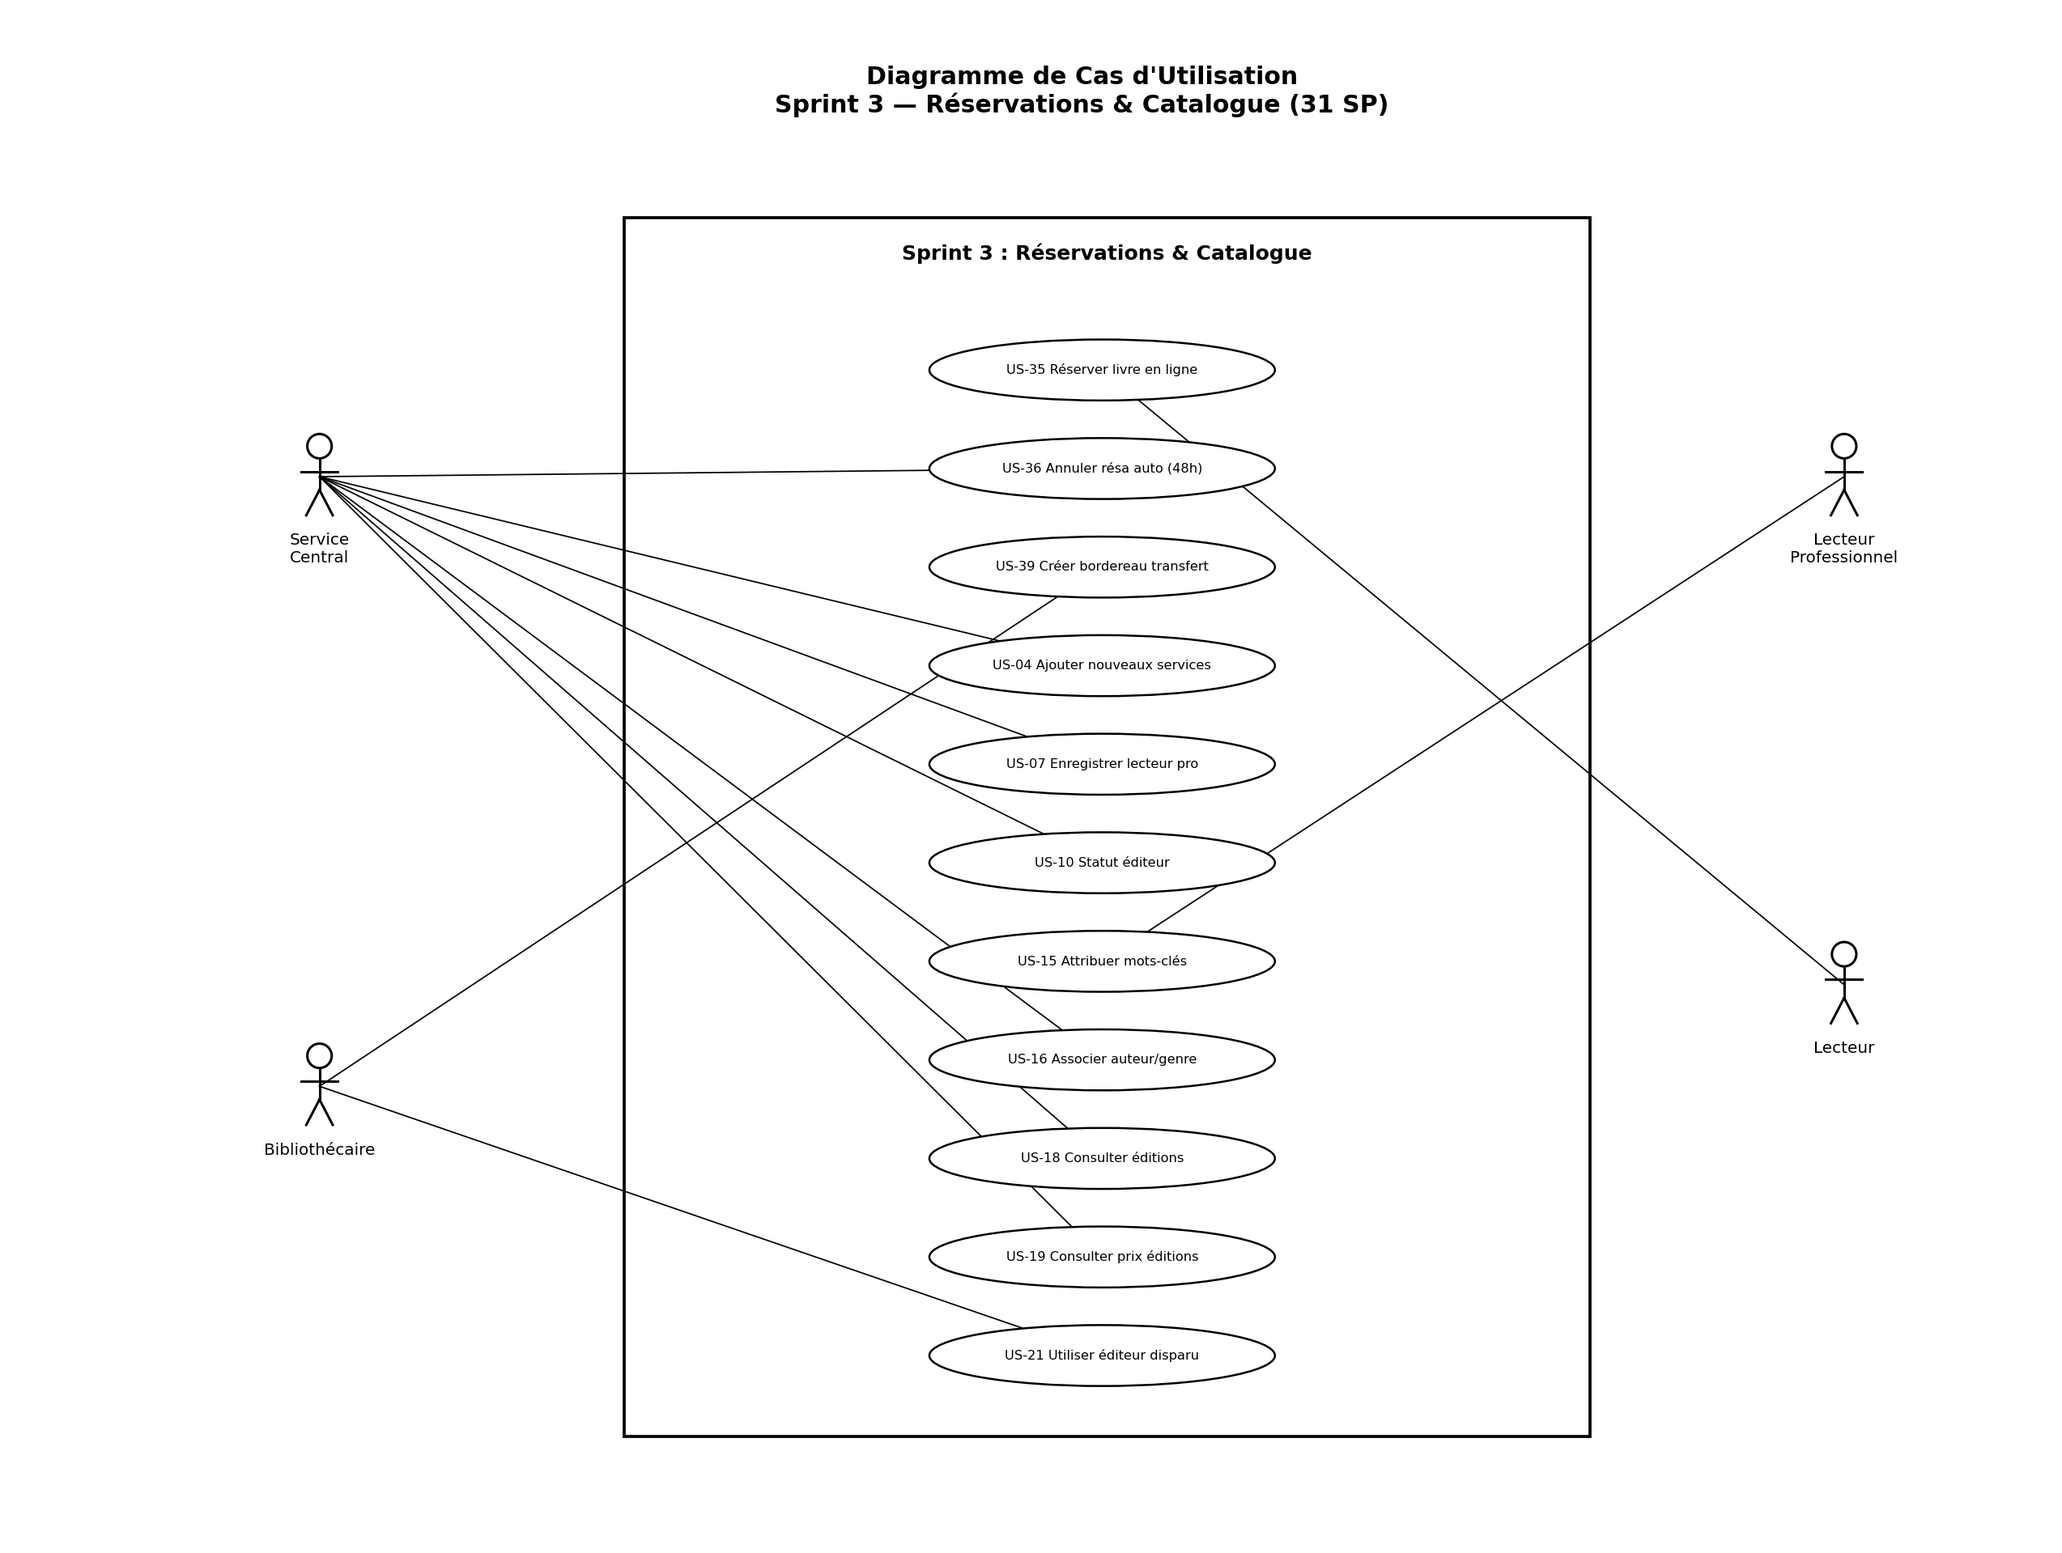
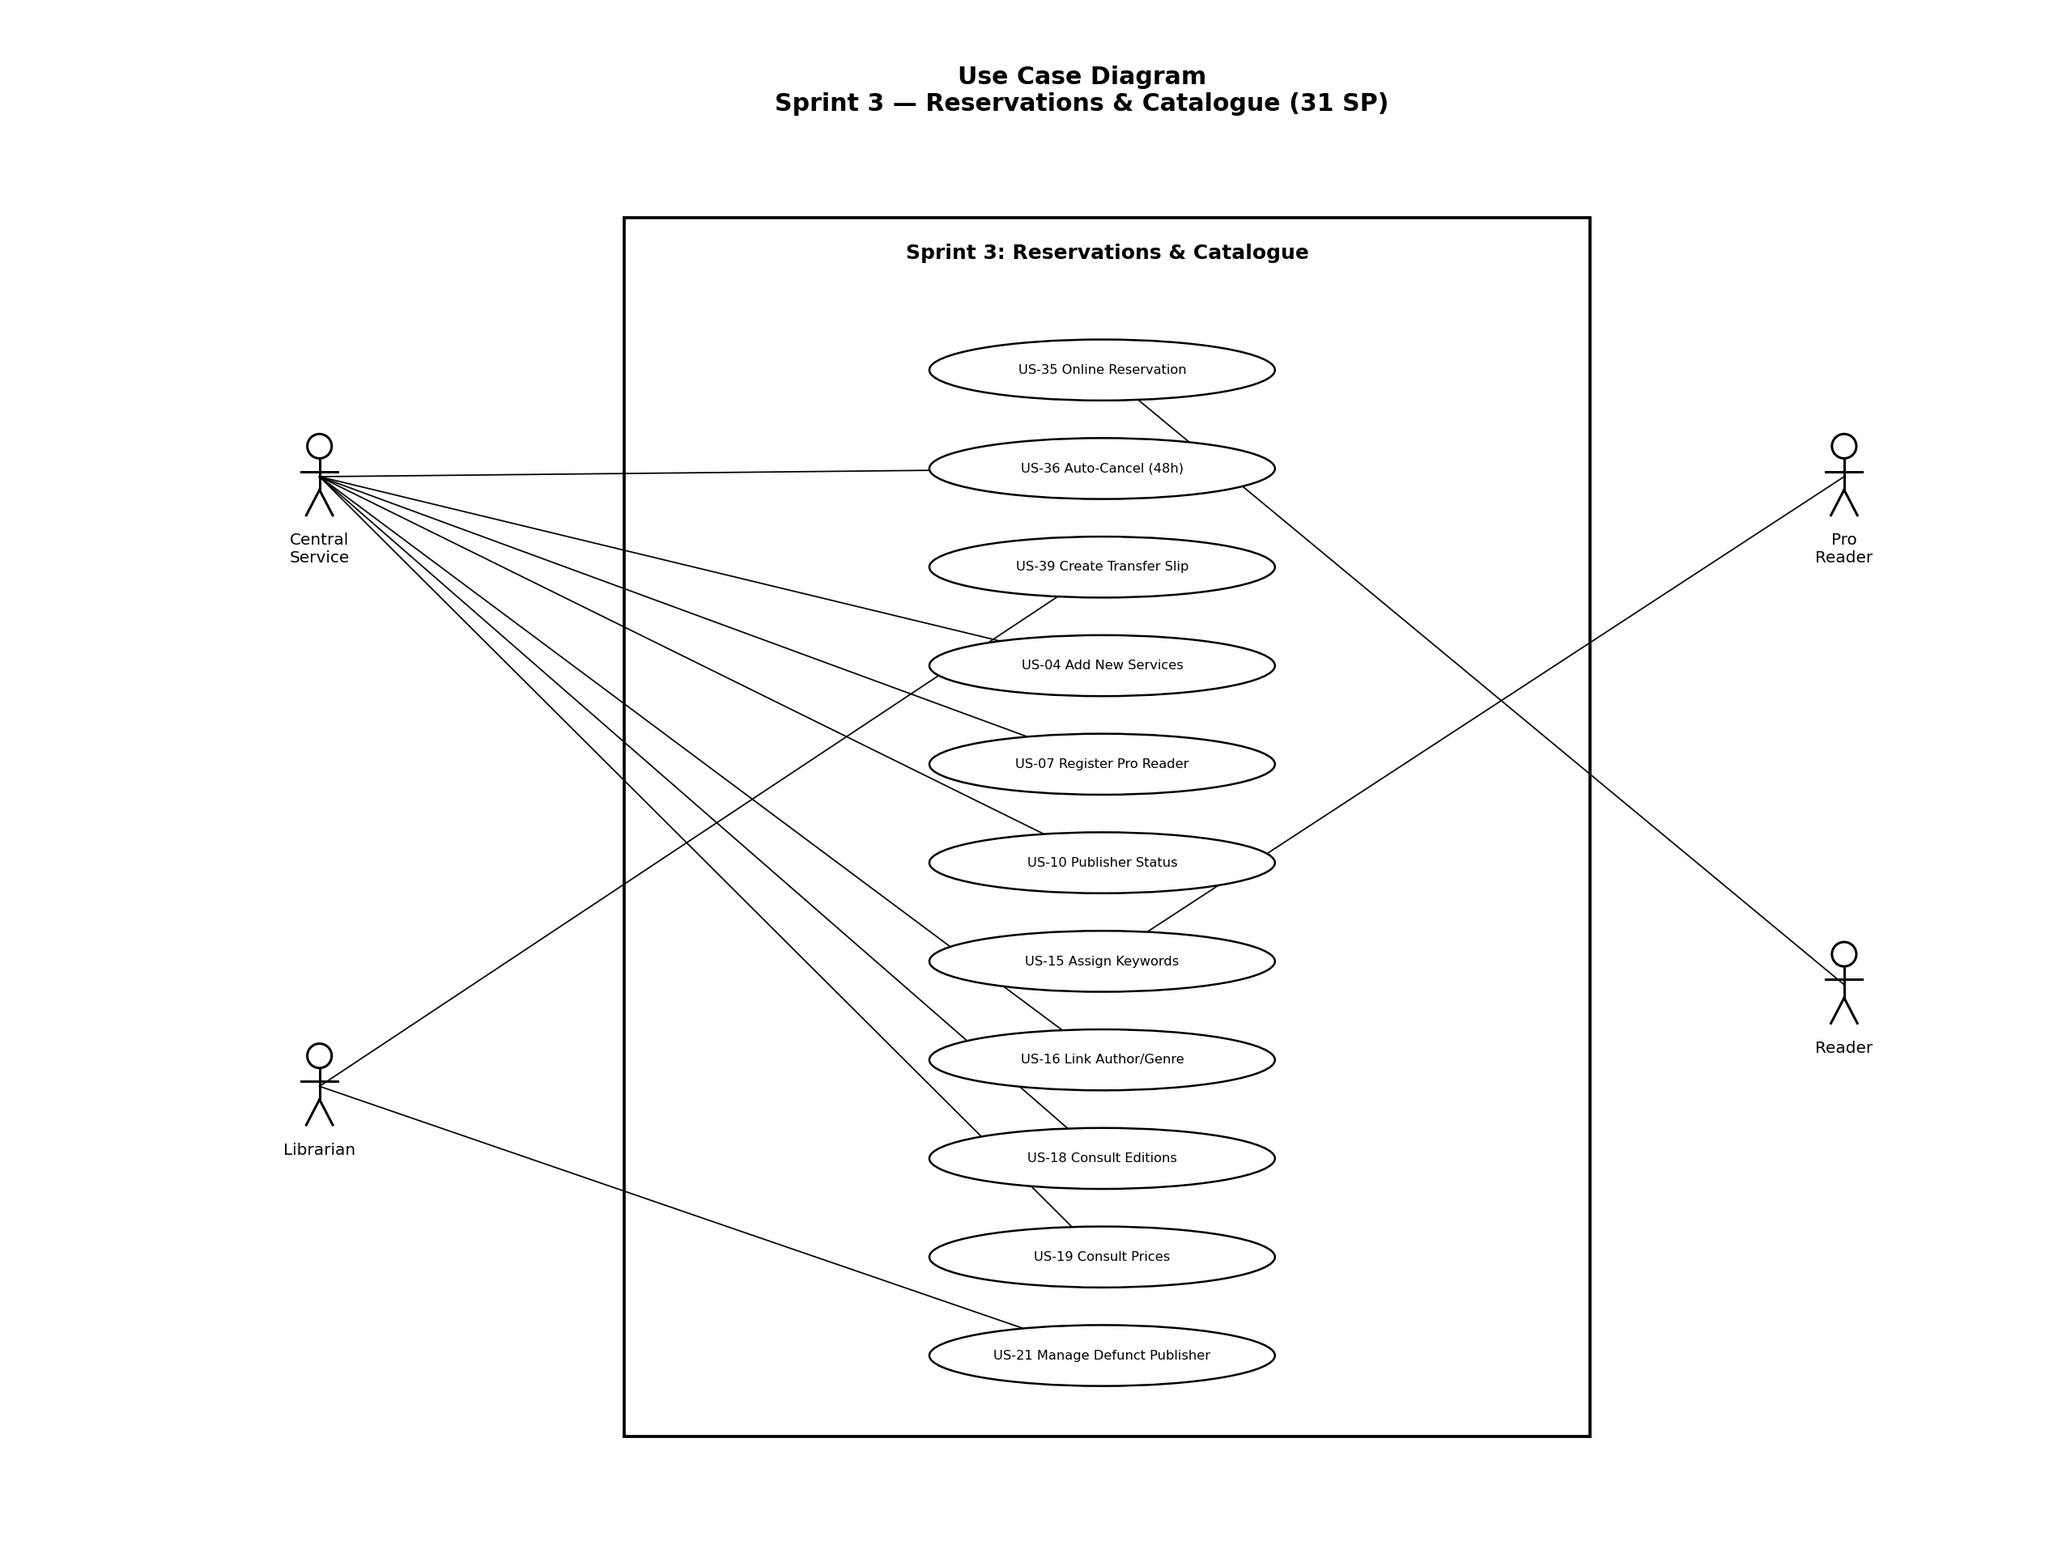
Translated all Sprint Use Case diagrams to English

diff --git a/index.html b/index.html
@@ -422,7 +422,7 @@
 <section class="slide" id="slide-13">
             <div class="content wide">
                 <h2 class="slide-title gsap-text">Sprint 1 - Authentication & Foundations</h2>
-                <p class="slide-subtitle gsap-text">Foundations and Authentication · 31 SP</p>
+                <p class="slide-subtitle gsap-text">Setting up the core structure · 31 SP</p>
                 <div class="split-layout mt-3">
                     <div class="left-col" style="justify-content: flex-start; align-items: flex-start;">
                         <p class="intro-text gsap-element" style="text-align: left; font-size: 1.1rem; max-width: 100%; margin-bottom: 1rem;">Sprint 1 focuses on security and basic network setup, including authentication and online registration.</p>
@@ -448,7 +448,7 @@
                     </div>
                     <div class="right-col">
                         <div class="uml-card gsap-element">
-                            <h3 class="text-must text-center mb-1">Sprint 1 - Authentication & Foundations</h3>
+                            <h3 class="text-must text-center mb-1">Sprint 1 (All Must Have)</h3>
                             <img src="assets/sprint1_usecase.png" alt="Sprint 1 UML" class="uml-img zoom-img">
                         </div>
                     </div>
@@ -458,7 +458,7 @@
 <section class="slide" id="slide-14">
             <div class="content wide">
                 <h2 class="slide-title gsap-text">Sprint 2 - Acquisitions & Loans</h2>
-                <p class="slide-subtitle gsap-text">Acquisitions and Loans · 32 Story Points</p>
+                <p class="slide-subtitle gsap-text">Acquisitions & Loans · 32 Story Points</p>
                 <div class="split-layout mt-3">
                     <div class="left-col" style="justify-content: flex-start; align-items: flex-start;">
                         <p class="intro-text gsap-element" style="text-align: left; font-size: 1.1rem; max-width: 100%; margin-bottom: 1rem;">Sprint 2 focuses on acquisition logistics (bulk purchases) and circulation rules (loan limits, penalties).</p>
@@ -483,7 +483,7 @@
                     </div>
                     <div class="right-col">
                         <div class="uml-card gsap-element">
-                            <h3 class="text-must text-center mb-1">Sprint 2 - Acquisitions & Loans</h3>
+                            <h3 class="text-must text-center mb-1">Sprint 2 (All Must Have)</h3>
                             <img src="assets/sprint2_usecase.png" alt="Sprint 2 UML" class="uml-img zoom-img">
                         </div>
                     </div>
@@ -495,7 +495,7 @@
 <section class="slide" id="slide-15">
             <div class="content wide">
                 <h2 class="slide-title gsap-text">Sprint 3 - Reservations & Catalogue</h2>
-                <p class="slide-subtitle gsap-text">Reservations and Catalogue · 31 SP</p>
+                <p class="slide-subtitle gsap-text">Advanced search and reservation system · 31 SP</p>
                 <div class="split-layout mt-3">
                     <div class="left-col" style="justify-content: flex-start; align-items: flex-start;">
                         <p class="intro-text gsap-element" style="text-align: left; font-size: 1.1rem; max-width: 100%; margin-bottom: 1rem;">Sprint 3 improves the reader experience with online reservations and detailed book metadata like keywords and genres.</p>
@@ -522,7 +522,7 @@
                     </div>
                     <div class="right-col">
                         <div class="uml-card gsap-element">
-                            <h3 class="text-must text-center mb-1">Sprint 3 - Reservations & Catalogue</h3>
+                            <h3 class="text-must text-center mb-1">Sprint 3 (Must + Should)</h3>
                             <img src="assets/sprint3_usecase.png" alt="Sprint 3 UML" class="uml-img zoom-img">
                         </div>
                     </div>
@@ -533,7 +533,7 @@
 <section class="slide" id="slide-16">
             <div class="content wide">
                 <h2 class="slide-title gsap-text">Sprint 4 - Quality & Transfers</h2>
-                <p class="slide-subtitle gsap-text">Quality and Transfers · 30 SP</p>
+                <p class="slide-subtitle gsap-text">Network logistics and statistics · 30 SP</p>
                 <div class="split-layout mt-3">
                     <div class="left-col" style="justify-content: flex-start; align-items: flex-start;">
                         <p class="intro-text gsap-element" style="text-align: left; font-size: 1.1rem; max-width: 100%; margin-bottom: 1rem;">Sprint 4 finalizes the system with inter-branch transfers, book condition tracking, and a statistics dashboard.</p>
@@ -558,7 +558,7 @@
                     </div>
                     <div class="right-col">
                         <div class="uml-card gsap-element">
-                            <h3 class="text-should text-center mb-1">Sprint 4 - Quality & Transfers</h3>
+                            <h3 class="text-should text-center mb-1">Sprint 4 (Should + Could)</h3>
                             <img src="assets/sprint4_usecase.png" alt="Sprint 4 UML" class="uml-img zoom-img">
                         </div>
                     </div>

diff --git a/generate_uml_en.py b/generate_uml_en.py
@@ -1,0 +1,224 @@
+"""
+UML Use Case Diagrams — English Version
+Sprint 1: Authentication & Foundations (31 SP)
+Sprint 2: Acquisitions & Loans (32 SP)
+Sprint 3: Reservations & Catalogue (31 SP)
+Sprint 4: Quality & Transfers (30 SP)
+"""
+import matplotlib
+matplotlib.use('Agg')
+import matplotlib.pyplot as plt
+import matplotlib.patches as patches
+import os
+
+OUTPUT_DIR = os.path.dirname(os.path.abspath(__file__))
+ASSETS_DIR = os.path.join(OUTPUT_DIR, 'assets')
+BLACK = '#000000'
+WHITE = '#FFFFFF'
+GREEN_ARROW = '#4CAF50'
+
+def draw_actor(ax, x, y, label):
+    # Head
+    ax.add_patch(plt.Circle((x, y+0.75), 0.12, fill=False, edgecolor=BLACK, linewidth=1.2, zorder=5))
+    # Body
+    ax.plot([x,x],[y+0.63,y+0.32], color=BLACK, linewidth=1.2, zorder=5)
+    # Arms
+    ax.plot([x-0.18,x+0.18],[y+0.50,y+0.50], color=BLACK, linewidth=1.2, zorder=5)
+    # Legs
+    ax.plot([x,x-0.13],[y+0.32,y+0.07], color=BLACK, linewidth=1.2, zorder=5)
+    ax.plot([x,x+0.13],[y+0.32,y+0.07], color=BLACK, linewidth=1.2, zorder=5)
+    ax.text(x, y-0.1, label, ha='center', va='top', fontsize=8, color=BLACK, zorder=6, multialignment='center')
+    return (x, y)
+
+def draw_inheritance(ax, child_xy, parent_xy, route_y=13.0, x_offset=0, route_x_offset=0):
+    cx, cy = child_xy[0], child_xy[1]
+    px, py = parent_xy[0], parent_xy[1]
+    vx = cx + route_x_offset
+    ax.plot([cx, vx], [cy+0.9, cy+0.9], color=GREEN_ARROW, linewidth=1.2, zorder=2)
+    ax.plot([vx, vx], [cy+0.9, route_y], color=GREEN_ARROW, linewidth=1.2, zorder=2)
+    ax.plot([vx, px + x_offset], [route_y, route_y], color=GREEN_ARROW, linewidth=1.2, zorder=2)
+    ax.plot([px + x_offset, px + x_offset], [route_y, py + 1.0], color=GREEN_ARROW, linewidth=1.2, zorder=2)
+    
+    # Triangle tip
+    size = 0.25
+    tip = [px + x_offset, py + 1.0]
+    p1 = [tip[0] - size/2, tip[1] + size]
+    p2 = [tip[0] + size/2, tip[1] + size]
+    poly = patches.Polygon([tip, p1, p2], closed=True, fill=True, facecolor=WHITE, edgecolor=GREEN_ARROW, linewidth=1.2, zorder=3)
+    ax.add_patch(poly)
+
+def draw_usecase(ax, x, y, label, w=3.4, h=0.60):
+    ax.add_patch(patches.Ellipse((x,y), w, h, fill=True, facecolor=WHITE, edgecolor=BLACK, linewidth=1.0, zorder=4))
+    ax.text(x, y, label, ha='center', va='center', fontsize=6.5, color=BLACK, zorder=6)
+    return (x, y)
+
+def draw_association(ax, actor_xy, uc_pos):
+    ax.plot([actor_xy[0], uc_pos[0]], [actor_xy[1]+0.45, uc_pos[1]], color=BLACK, linewidth=0.7, zorder=3)
+
+def draw_system_boundary(ax, x, y, w, h, title):
+    ax.add_patch(patches.Rectangle((x,y), w, h, fill=False, edgecolor=BLACK, linewidth=1.5, zorder=1))
+    ax.text(x+w/2, y+h-0.35, title, ha='center', va='center', fontsize=10, fontweight='bold', color=BLACK, zorder=5)
+
+def evenly_spaced(start_y, end_y, n):
+    if n <= 1: return [(start_y + end_y) / 2]
+    step = (start_y - end_y) / (n - 1)
+    return [start_y - i * step for i in range(n)]
+
+def generate_sprint1():
+    fig, ax = plt.subplots(figsize=(18, 14))
+    ax.set_xlim(-2, 18); ax.set_ylim(-1, 16.5); ax.set_aspect('equal'); ax.axis('off')
+    fig.patch.set_facecolor(WHITE)
+    
+    ax.text(8.5, 16.2, "Use Case Diagram\nSprint 1 — Authentication & Foundations (31 SP)", ha='center', va='top', fontsize=12, fontweight='bold')
+    draw_system_boundary(ax, 4, 0, 9.5, 13.0, 'Sprint 1: Foundations')
+    
+    u = draw_actor(ax, 1, 11.5, 'User')
+    sc = draw_actor(ax, 0.5, 5.5, 'Central\nService')
+    lp = draw_actor(ax, 16, 9.0, 'Pro\nReader')
+    h = draw_actor(ax, 16, 4.0, 'Resident')
+    
+    draw_inheritance(ax, sc, u, route_y=13.5, x_offset=0.4, route_x_offset=-1.0)
+    draw_inheritance(ax, lp, u, route_y=14.5, x_offset=0, route_x_offset=0.6)
+    draw_inheritance(ax, h, u, route_y=15.2, x_offset=-0.4, route_x_offset=1.2)
+    
+    labels = [
+        "US-01 Authenticate",
+        "US-02 Create Library",
+        "US-03 Hire Staff",
+        "US-05 Assign Manager",
+        "US-06 Unique Book IDs",
+        "US-08 Register Author",
+        "US-09 Register Publisher",
+        "US-11 Write Book Summary",
+        "US-12 Create Online Card",
+        "US-13 Provide Purchase Advice"
+    ]
+    ys = evenly_spaced(11.5, 1.0, len(labels))
+    ucs = [draw_usecase(ax, 8.7, y, lbl) for y, lbl in zip(ys, labels)]
+    
+    for lbl, uc in zip(labels, ucs):
+        if "US-01" in lbl: draw_association(ax, u, uc)
+        if "US-02" in lbl or "US-03" in lbl or "US-05" in lbl or "US-06" in lbl or "US-08" in lbl or "US-09" in lbl: draw_association(ax, sc, uc)
+        if "US-11" in lbl or "US-13" in lbl: draw_association(ax, lp, uc)
+        if "US-12" in lbl: draw_association(ax, h, uc)
+
+    plt.savefig(os.path.join(ASSETS_DIR, 'sprint1_usecase.png'), dpi=180, bbox_inches='tight')
+    plt.close()
+
+def generate_sprint2():
+    fig, ax = plt.subplots(figsize=(18, 14))
+    ax.set_xlim(-2, 18); ax.set_ylim(-1, 14); ax.set_aspect('equal'); ax.axis('off')
+    fig.patch.set_facecolor(WHITE)
+    
+    ax.text(8.5, 13.5, "Use Case Diagram\nSprint 2 — Acquisitions & Loans (32 SP)", ha='center', va='top', fontsize=12, fontweight='bold')
+    draw_system_boundary(ax, 4, 0, 9.5, 12, 'Sprint 2: Acquisitions & Loans')
+    
+    sc = draw_actor(ax, 1, 8.0, 'Central\nService')
+    bib = draw_actor(ax, 1, 2.0, 'Librarian')
+    sys = draw_actor(ax, 16, 6.0, 'System')
+    lec = draw_actor(ax, 16, 10.0, 'Reader')
+    
+    labels = [
+        "US-14 Authorize Book",
+        "US-20 Record Purchase",
+        "US-22 Purchase by Edition",
+        "US-23 Complete Stock",
+        "US-24 Auto-Numbering",
+        "US-25 Distribute Books",
+        "US-29 Apply 3-Book Limit",
+        "US-30 Late Return Fee",
+        "US-34 Check Availability"
+    ]
+    ys = evenly_spaced(10.5, 0.8, len(labels))
+    ucs = [draw_usecase(ax, 8.7, y, lbl) for y, lbl in zip(ys, labels)]
+    
+    for lbl, uc in zip(labels, ucs):
+        if "US-14" in lbl or "US-20" in lbl or "US-22" in lbl or "US-23" in lbl or "US-24" in lbl or "US-25" in lbl: draw_association(ax, sc, uc)
+        if "US-29" in lbl: draw_association(ax, sys, uc)
+        if "US-30" in lbl: draw_association(ax, bib, uc)
+        if "US-34" in lbl: draw_association(ax, lec, uc)
+
+    plt.savefig(os.path.join(ASSETS_DIR, 'sprint2_usecase.png'), dpi=180, bbox_inches='tight')
+    plt.close()
+
+def generate_sprint3():
+    fig, ax = plt.subplots(figsize=(18, 14))
+    ax.set_xlim(-2, 18); ax.set_ylim(-1, 14); ax.set_aspect('equal'); ax.axis('off')
+    fig.patch.set_facecolor(WHITE)
+    
+    ax.text(8.5, 13.5, "Use Case Diagram\nSprint 3 — Reservations & Catalogue (31 SP)", ha='center', va='top', fontsize=12, fontweight='bold')
+    draw_system_boundary(ax, 4, 0, 9.5, 12, 'Sprint 3: Reservations & Catalogue')
+    
+    sc = draw_actor(ax, 1, 9.0, 'Central\nService')
+    bib = draw_actor(ax, 1, 3.0, 'Librarian')
+    lp = draw_actor(ax, 16, 9.0, 'Pro\nReader')
+    lec = draw_actor(ax, 16, 4.0, 'Reader')
+    
+    labels = [
+        "US-35 Online Reservation",
+        "US-36 Auto-Cancel (48h)",
+        "US-39 Create Transfer Slip",
+        "US-04 Add New Services",
+        "US-07 Register Pro Reader",
+        "US-10 Publisher Status",
+        "US-15 Assign Keywords",
+        "US-16 Link Author/Genre",
+        "US-18 Consult Editions",
+        "US-19 Consult Prices",
+        "US-21 Manage Defunct Publisher"
+    ]
+    ys = evenly_spaced(10.5, 0.8, len(labels))
+    ucs = [draw_usecase(ax, 8.7, y, lbl) for y, lbl in zip(ys, labels)]
+    
+    for lbl, uc in zip(labels, ucs):
+        if "US-35" in lbl: draw_association(ax, lec, uc)
+        if "US-36" in lbl or "US-04" in lbl or "US-07" in lbl or "US-10" in lbl or "US-16" in lbl or "US-18" in lbl or "US-19" in lbl: draw_association(ax, sc, uc)
+        if "US-39" in lbl or "US-21" in lbl: draw_association(ax, bib, uc)
+        if "US-15" in lbl: draw_association(ax, lp, uc)
+
+    plt.savefig(os.path.join(ASSETS_DIR, 'sprint3_usecase.png'), dpi=180, bbox_inches='tight')
+    plt.close()
+
+def generate_sprint4():
+    fig, ax = plt.subplots(figsize=(18, 14))
+    ax.set_xlim(-2, 18); ax.set_ylim(-1, 14); ax.set_aspect('equal'); ax.axis('off')
+    fig.patch.set_facecolor(WHITE)
+    
+    ax.text(8.5, 13.5, "Use Case Diagram\nSprint 4 — Quality & Transfers (30 SP)", ha='center', va='top', fontsize=12, fontweight='bold')
+    draw_system_boundary(ax, 4, 0, 9.5, 12, 'Sprint 4: Quality & Transfers')
+    
+    sc = draw_actor(ax, 1, 9.0, 'Central\nService')
+    bib = draw_actor(ax, 1, 3.0, 'Librarian')
+    lp = draw_actor(ax, 16, 10.0, 'Pro\nReader')
+    lec = draw_actor(ax, 16, 6.0, 'Reader')
+    
+    labels = [
+        "US-26 Manage Condition",
+        "US-27 Renew Card",
+        "US-28 Log Child Loan",
+        "US-31 Repair Fees",
+        "US-32 Record Conflicts",
+        "US-33 Full Book History",
+        "US-37 Loan Statistics",
+        "US-38 Identify Stock Deficit",
+        "US-17 Genre Commentary"
+    ]
+    ys = evenly_spaced(10.5, 0.8, len(labels))
+    ucs = [draw_usecase(ax, 8.7, y, lbl) for y, lbl in zip(ys, labels)]
+    
+    for lbl, uc in zip(labels, ucs):
+        if "US-26" in lbl or "US-31" in lbl or "US-32" in lbl or "US-33" in lbl or "US-38" in lbl: draw_association(ax, bib, uc)
+        if "US-27" in lbl: draw_association(ax, lec, uc)
+        if "US-28" in lbl or "US-37" in lbl: draw_association(ax, sc, uc)
+        if "US-17" in lbl: draw_association(ax, lp, uc)
+
+    plt.savefig(os.path.join(ASSETS_DIR, 'sprint4_usecase.png'), dpi=180, bbox_inches='tight')
+    plt.close()
+
+if __name__ == "__main__":
+    if not os.path.exists(ASSETS_DIR): os.makedirs(ASSETS_DIR)
+    generate_sprint1()
+    generate_sprint2()
+    generate_sprint3()
+    generate_sprint4()
+    print("English UML Diagrams generated successfully in assets/ folder!")
